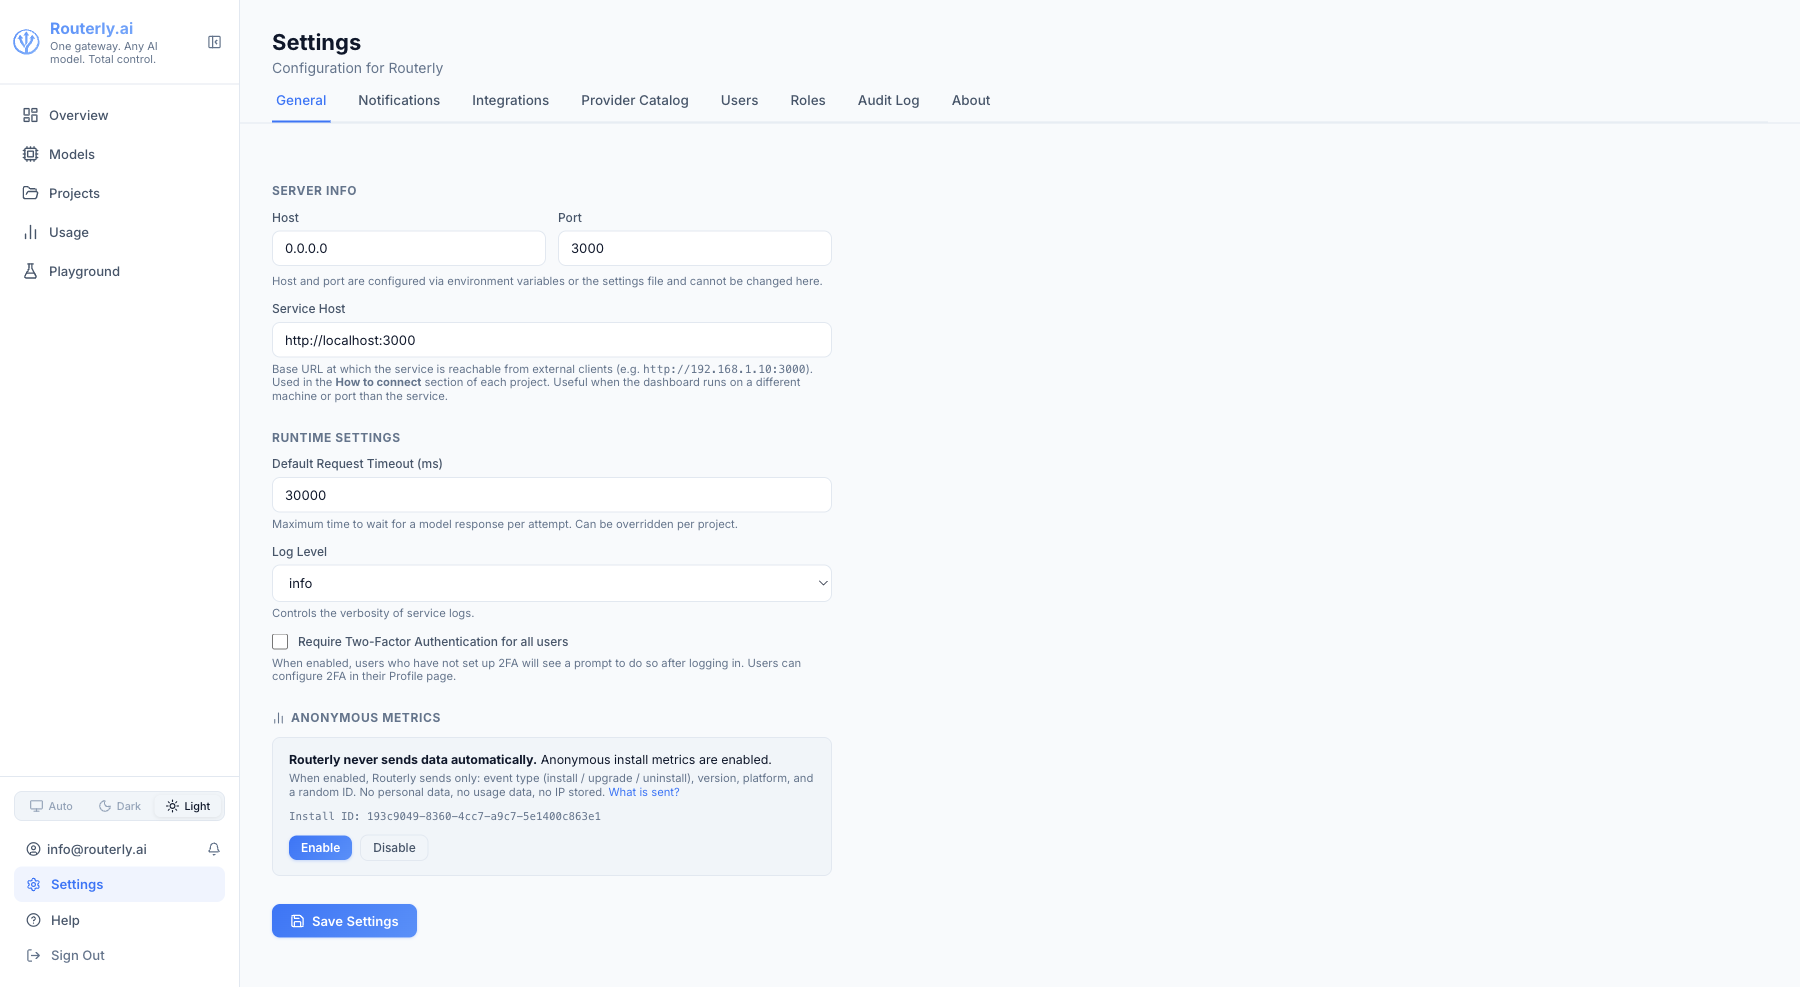
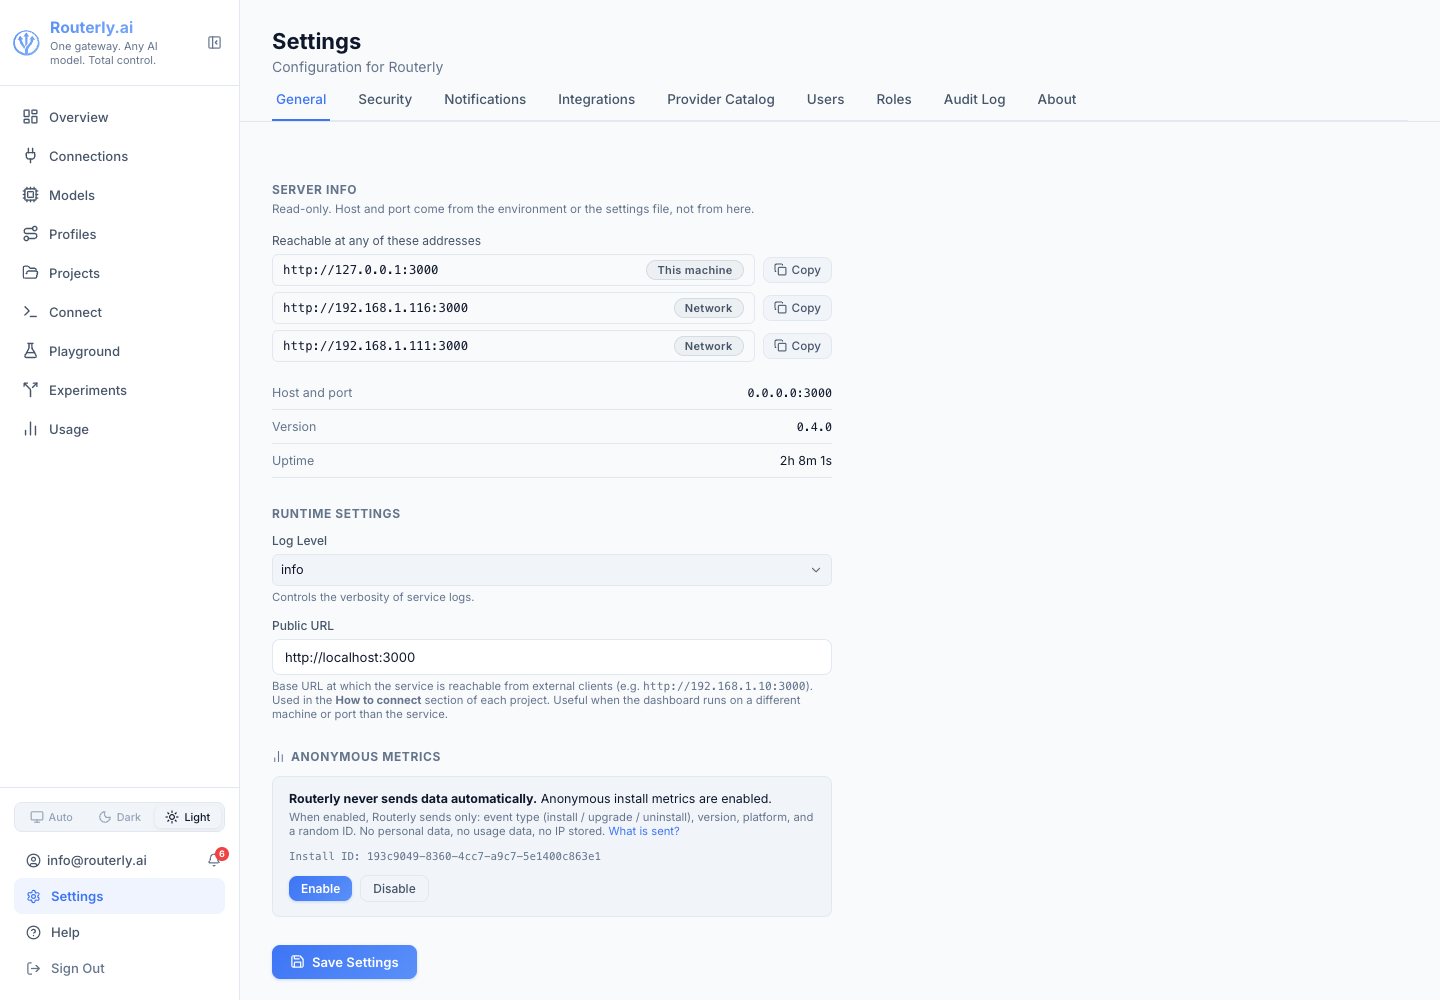
feat(dashboard): curate the server info block and flatten the sidebar order
Server Info repeated "Server listening at" on every row and mixed the
read-only address list with the editable Public URL. Addresses are now bare
and badged with the scope they serve, host/port, version and uptime read as
rows, and Public URL moved to Runtime Settings where it is saved.

The sidebar is one flat list ordered the way the product is used: setup
(Connections to Projects), then use (Connect, Playground), then measurement
(Experiments, Usage).

diff --git a/packages/dashboard/src/pages/SettingsPage.tsx b/packages/dashboard/src/pages/SettingsPage.tsx
@@ -89,6 +89,12 @@ function TelemetrySection({ settings, onSaved }: { settings: Settings; onSaved: 
 
 // ── General tab ───────────────────────────────────────────────────────────────
 
+/** Which addresses only work on this machine, so the list says it instead of implying it. */
+function addressScope(address: string): string {
+  return /\/\/(127\.|\[?::1\]?|localhost)/.test(address) ? 'This machine' : 'Network';
+}
+
+
 export function SettingsGeneralTab() {
   const [settings, setSettings] = useState<Settings | null>(null);
   const [info, setInfo] = useState<SystemInfo | null>(null);
@@ -158,13 +164,23 @@ export function SettingsGeneralTab() {
     <form onSubmit={handleSubmit} style={{ maxWidth: 560 }}>
 
       <div style={{ marginBottom: 28 }}>
-        <h3 style={{ fontSize: '0.8rem', textTransform: 'uppercase', letterSpacing: '0.05em', color: 'var(--text-muted)', marginBottom: 12 }}>
+        <h3 style={{ fontSize: '0.8rem', textTransform: 'uppercase', letterSpacing: '0.05em', color: 'var(--text-muted)', marginBottom: 4 }}>
           Server Info
         </h3>
+        <p style={{ fontSize: '0.78rem', color: 'var(--text-muted)', margin: '0 0 14px', lineHeight: 1.5 }}>
+          Read-only. Host and port come from the environment or the settings file, not from here.
+        </p>
+
+        <div style={{ fontSize: '0.8rem', color: 'var(--text-secondary)', marginBottom: 6 }}>
+          {listenAddresses.length === 1 ? 'Reachable at' : 'Reachable at any of these addresses'}
+        </div>
         {listenAddresses.map(address => (
           <div key={address} style={{ display: 'flex', alignItems: 'center', gap: 8, marginBottom: 6 }}>
-            <div style={{ flex: 1, background: 'var(--bg-input, var(--bg-tertiary, var(--bg-secondary)))', border: '1px solid var(--border)', borderRadius: 6, padding: '5px 10px', fontFamily: 'monospace', fontSize: '0.82rem', color: 'var(--text-primary)', minWidth: 0, overflow: 'hidden', textOverflow: 'ellipsis', whiteSpace: 'nowrap' }}>
-              Server listening at {address}
+            <div style={{ flex: 1, display: 'flex', alignItems: 'center', gap: 10, background: 'var(--bg-input, var(--bg-tertiary, var(--bg-secondary)))', border: '1px solid var(--border)', borderRadius: 6, padding: '5px 10px', minWidth: 0 }}>
+              <span style={{ flex: 1, fontFamily: 'monospace', fontSize: '0.82rem', color: 'var(--text-primary)', minWidth: 0, overflow: 'hidden', textOverflow: 'ellipsis', whiteSpace: 'nowrap' }}>
+                {address}
+              </span>
+              <span className="badge badge-neutral" style={{ flexShrink: 0 }}>{addressScope(address)}</span>
             </div>
             <button
               type="button"
@@ -178,30 +194,11 @@ export function SettingsGeneralTab() {
             </button>
           </div>
         ))}
-        <p style={{ fontSize: '0.75rem', color: 'var(--text-muted)', marginTop: 8 }}>
-          Detected at runtime from the bind address. Host and port are configured via environment variables or the settings file and cannot be changed here.
-        </p>
-        {info && (
-          <div style={{ marginTop: 14 }}>
-            <InfoRow label="Version" value={info.version} mono />
-            <InfoRow label="Uptime" value={formatUptime(info.uptimeSeconds)} />
-          </div>
-        )}
-        <div className="form-group" style={{ marginTop: 14 }}>
-          <label className="form-label" htmlFor="s-publicurl">Public URL</label>
-          <input
-            id="s-publicurl"
-            className="form-input"
-            type="url"
-            placeholder={`http://${settings?.host === '0.0.0.0' ? '<your-ip>' : (settings?.host ?? 'localhost')}:${settings?.port ?? 3000}`}
-            value={form.publicUrl ?? ''}
-            onChange={e => field('publicUrl', e.target.value)}
-          />
-          <p style={{ fontSize: '0.75rem', color: 'var(--text-muted)', marginTop: 4 }}>
-            Base URL at which the service is reachable from external clients (e.g. <code>http://192.168.1.10:3000</code>).
-            Used in the <strong>How to connect</strong> section of each project.
-            Useful when the dashboard runs on a different machine or port than the service.
-          </p>
+
+        <div style={{ marginTop: 14 }}>
+          <InfoRow label="Host and port" value={`${settings.host}:${settings.port}`} mono />
+          {info && <InfoRow label="Version" value={info.version} mono />}
+          {info && <InfoRow label="Uptime" value={formatUptime(info.uptimeSeconds)} />}
         </div>
       </div>
 
@@ -221,6 +218,23 @@ export function SettingsGeneralTab() {
           />
           <p style={{ fontSize: '0.75rem', color: 'var(--text-muted)', marginTop: 4 }}>
             Controls the verbosity of service logs.
+          </p>
+        </div>
+
+        <div className="form-group">
+          <label className="form-label" htmlFor="s-publicurl">Public URL</label>
+          <input
+            id="s-publicurl"
+            className="form-input"
+            type="url"
+            placeholder={`http://${settings?.host === '0.0.0.0' ? '<your-ip>' : (settings?.host ?? 'localhost')}:${settings?.port ?? 3000}`}
+            value={form.publicUrl ?? ''}
+            onChange={e => field('publicUrl', e.target.value)}
+          />
+          <p style={{ fontSize: '0.75rem', color: 'var(--text-muted)', marginTop: 4 }}>
+            Base URL at which the service is reachable from external clients (e.g. <code>http://192.168.1.10:3000</code>).
+            Used in the <strong>How to connect</strong> section of each project.
+            Useful when the dashboard runs on a different machine or port than the service.
           </p>
         </div>
 

diff --git a/packages/dashboard/src/pages/SettingsPage.test.tsx b/packages/dashboard/src/pages/SettingsPage.test.tsx
@@ -187,18 +187,32 @@ describe('SettingsGeneralTab', () => {
     await waitFor(() => expect(screen.queryByText('Failed to load settings')).not.toBeNull());
   });
 
-  it('renders one read-only line per listening address', async () => {
+  it('renders one read-only line per listening address, saying which reach the network', async () => {
     mockGetSettings.mockResolvedValue({ ...baseSettings, listeningAddresses: ['http://127.0.0.1:3000', 'http://192.168.1.10:3000'] } as never);
     renderGeneral();
-    await waitFor(() => screen.getByText('Server listening at http://127.0.0.1:3000'));
-    expect(screen.queryByText('Server listening at http://192.168.1.10:3000')).not.toBeNull();
+    await waitFor(() => screen.getByText('http://127.0.0.1:3000'));
+    // The same address appears in the Public URL help text, so identify this one by its own copy button.
+    expect(screen.getByLabelText('Copy http://192.168.1.10:3000')).toBeInTheDocument();
+    expect(screen.getByText('Reachable at any of these addresses')).toBeInTheDocument();
+    // A loopback address only serves this machine; the other one is reachable from the LAN.
+    expect(screen.getByText('This machine')).toBeInTheDocument();
+    expect(screen.getByText('Network')).toBeInTheDocument();
     // no editable host/port inputs left
     expect(screen.queryByDisplayValue('0.0.0.0')).toBeNull();
   });
 
+  it('says "Reachable at" and shows host and port when there is a single address', async () => {
+    mockGetSettings.mockResolvedValue({ ...baseSettings, listeningAddresses: ['http://localhost:3000'] } as never);
+    renderGeneral();
+    await waitFor(() => screen.getByText('Reachable at'));
+    expect(screen.getByText('This machine')).toBeInTheDocument();
+    expect(screen.getByText('Host and port')).toBeInTheDocument();
+    expect(screen.getByText('0.0.0.0:3000')).toBeInTheDocument();
+  });
+
   it('falls back to host:port when the service reports no listening addresses', async () => {
     renderGeneral();
-    await waitFor(() => screen.getByText('Server listening at http://0.0.0.0:3000'));
+    await waitFor(() => screen.getByText('http://0.0.0.0:3000'));
   });
 
   it('copies a listening address to the clipboard', async () => {
@@ -3852,7 +3866,7 @@ describe('SettingsGeneralTab — null field fallback branches', () => {
   it('empty listeningAddresses falls back to the bind address', async () => {
     mockGetSettings.mockResolvedValue({ ...baseSettings, listeningAddresses: [] } as never);
     render(<MemoryRouter><SettingsGeneralTab /></MemoryRouter>);
-    await waitFor(() => screen.getByText('Server listening at http://0.0.0.0:3000'));
+    await waitFor(() => screen.getByText('http://0.0.0.0:3000'));
   });
 
   it('settings?.host undefined → placeholder uses localhost fallback (L163 false+nullish branch)', async () => {

diff --git a/packages/dashboard/src/App.tsx b/packages/dashboard/src/App.tsx
@@ -110,16 +110,19 @@ function Sidebar({ collapsed, onToggle }: { collapsed: boolean; onToggle: () => 
 
   function handleLogout() { logout(); navigate('/dashboard/login'); }
 
+  // One flat list, ordered the way the product is used: what you set up
+  // (Connections to Projects), then how you use it (Connect, Playground), then
+  // what it tells you back (Experiments, Usage).
   const navItems = [
     { to: '/dashboard/overview', icon: <LayoutDashboard size={17} />, label: 'Overview' },
     ...(can('connections:read') ? [{ to: '/dashboard/connections', icon: <Plug size={17} />, label: 'Connections' }] : []),
     { to: '/dashboard/models', icon: <Cpu size={17} />, label: 'Models' },
     ...(can('profiles:read') ? [{ to: '/dashboard/profiles', icon: <Route size={17} />, label: 'Profiles' }] : []),
     { to: '/dashboard/projects', icon: <FolderOpen size={17} />, label: 'Projects' },
+    ...(clientsEnabled ? [{ to: '/dashboard/connect', icon: <Terminal size={17} />, label: 'Connect' }] : []),
+    { to: '/dashboard/test', icon: <FlaskConical size={17} />, label: 'Playground' },
     ...(experimentsEnabled ? [{ to: '/dashboard/experiments', icon: <Split size={17} />, label: 'Experiments' }] : []),
     { to: '/dashboard/usage', icon: <BarChart2 size={17} />, label: 'Usage' },
-    { to: '/dashboard/test', icon: <FlaskConical size={17} />, label: 'Playground' },
-    ...(clientsEnabled ? [{ to: '/dashboard/connect', icon: <Terminal size={17} />, label: 'Connect' }] : []),
   ];
 
   return (

diff --git a/packages/dashboard/src/App.test.tsx b/packages/dashboard/src/App.test.tsx
@@ -286,15 +286,18 @@ describe('Sidebar', () => {
     await waitFor(() => expect(screen.getByText('Experiments')).toBeTruthy());
   });
 
-  it('renders Connections before Models in nav order', async () => {
+  it('lists the nav flat, in setup then use then measure order', async () => {
+    // Both optional modules on, so the whole intended order is visible at once.
+    mockGetClients.mockResolvedValue([]);
+    mockGetExperiments.mockResolvedValue([]);
     renderApp();
-    await waitFor(() => screen.getByText('Overview'));
+    await waitFor(() => screen.getByText('Connect'));
+    await waitFor(() => screen.getByText('Experiments'));
     const labels = Array.from(document.querySelectorAll('.sidebar-nav .nav-label')).map(el => el.textContent);
-    const connectionsIndex = labels.findIndex(l => l === 'Connections');
-    const modelsIndex = labels.findIndex(l => l === 'Models');
-    expect(connectionsIndex).toBeGreaterThanOrEqual(0);
-    expect(modelsIndex).toBeGreaterThanOrEqual(0);
-    expect(connectionsIndex).toBeLessThan(modelsIndex);
+    expect(labels).toEqual([
+      'Overview', 'Connections', 'Models', 'Profiles', 'Projects',
+      'Connect', 'Playground', 'Experiments', 'Usage',
+    ]);
   });
 
   it('toggles collapsed state on toggle button click', async () => {

diff --git a/docs/dashboard/settings.md b/docs/dashboard/settings.md
@@ -17,23 +17,37 @@ Open Settings from the **Settings** item in the sidebar.
 
 ### Server Info
 
-Read-only block, one line per address the service is actually reachable at:
+Read-only block. It answers one question: where is this service reachable, and from where.
 
-```text
-Server listening at http://127.0.0.1:3000
-Server listening at http://192.168.1.116:3000
-```
+Under **Reachable at any of these addresses** (**Reachable at** when there is only one) each address is listed with a badge:
 
-The list is derived at runtime from the bind address: a wildcard bind (`0.0.0.0`) expands to every IPv4 interface, any other host resolves to that single address. Each line has a **Copy** button. Below the list, **Version** and **Uptime** report the running build.
+| Badge | Meaning |
+|-------|---------|
+| **This machine** | Loopback address (`127.0.0.1`, `::1`, `localhost`). Only clients running on the same machine can use it |
+| **Network** | Reachable from other machines that can route to this host |
+
+Each address has a **Copy** button that puts it on the clipboard.
+
+The list is derived at runtime from the bind address: a wildcard bind (`0.0.0.0`) expands to every IPv4 interface, any other host resolves to that single address.
+
+Below the list:
+
+| Row | Description |
+|-----|-------------|
+| **Host and port** | The bind address the service was started with |
+| **Version** | The running build |
+| **Uptime** | Time since the service started |
 
 Host and port come from the environment or the settings file and cannot be changed here; changing them requires a restart.
 
 ### Runtime Settings
 
+Everything in this block is editable and saved with **Save Settings**.
+
 | Field | Description |
 |-------|-------------|
-| **Public URL** | The externally accessible URL of this Routerly instance. Shown in project connection snippets |
 | **Log Level** | `trace` / `debug` / `info` / `warn` / `error` |
+| **Public URL** | The externally accessible URL of this Routerly instance. Shown in project connection snippets. Useful when the dashboard runs on a different machine or port than the service |
 
 **Anonymous metrics** is a separate self-saving toggle at the bottom of the tab.
 
